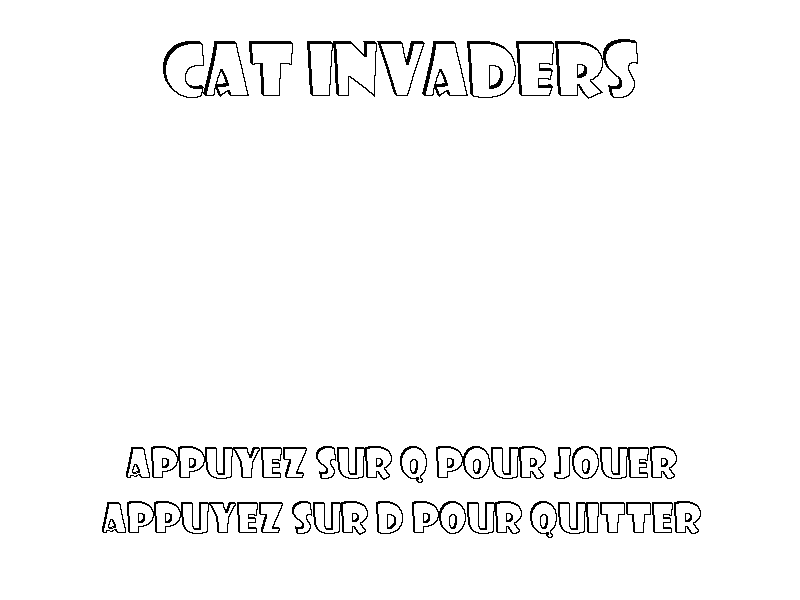
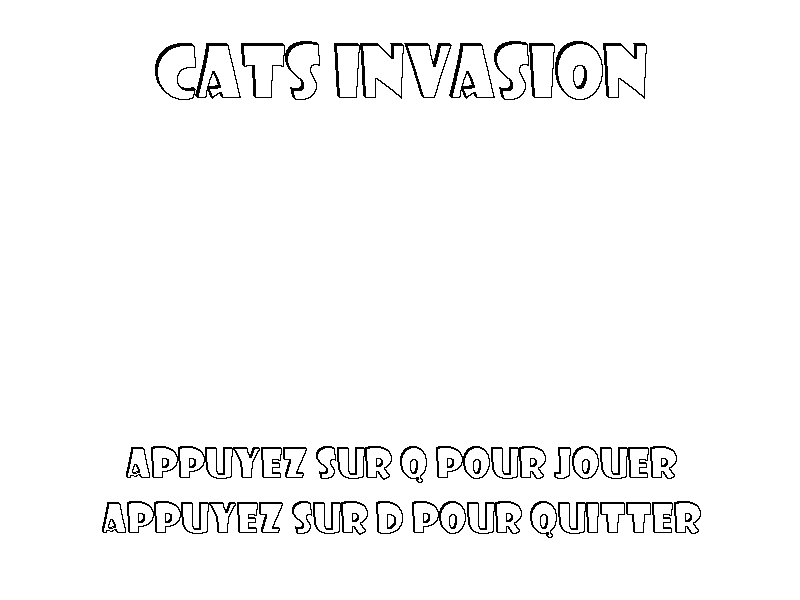
Rename project and memory optimization

Changed region(s): [[0.1875, 0.06, 0.8125, 0.18]]

diff --git a/src/main.c b/src/main.c
@@ -8,19 +8,20 @@
 #include <time.h>
 
 /* App settings */
-#define SPRITE_COUNT 24
+#define SPRITE_COUNT 23
 #define BACKGROUD_INDEX 0
-#define ICON_INDEX 7
-#define APP_NAME "Space Invaders"
+#define ICON_INDEX 6
+#define APP_NAME "Cats Invasion"
+#define APP_ID "fr.dashstrom.cats-invasion"
 #define APP_WIDTH 800
 #define APP_HEIGHT 600
 #define APP_MEMORY 32000
 #define FPS_MAX 13
-#define IMAGE_PATH "/sprites/data/images/"
-#define ADDR_STOP 8
-#define ADDR_MOVE_LEFT 24
-#define ADDR_MOVE_RIGHT 25
-#define ADDR_SHOOT 26
+#define IMAGE_PATH "/data/images/"
+#define ADDR_STOP 1
+#define ADDR_MOVE_LEFT 3
+#define ADDR_MOVE_RIGHT 4
+#define ADDR_SHOOT 5
 
 /* Pointer to the memory area */
 unsigned char *memory;
@@ -46,7 +47,6 @@ image_t images[] = {
     {IMAGE_PATH "debug.bmp", NULL},
     {IMAGE_PATH "void.bmp", NULL},
     {IMAGE_PATH "cat.png", NULL},
-    {IMAGE_PATH "cat-explode.png", NULL},
     {IMAGE_PATH "food.png", NULL},
     {IMAGE_PATH "spaceship1.png", NULL},
     {IMAGE_PATH "spaceship2.png", NULL},
@@ -117,7 +117,7 @@ void setup_images() {
 /* Wrapper for update loop in assembly */
 void update_loop() {
     if (!is_shutting_down) {
-        if (*(long long *)(memory + ADDR_STOP) != 0) {
+        if (memory[ADDR_STOP] != 0) {
             gtk_widget_destroy(main_window);
             return;
         }
@@ -157,13 +157,11 @@ int set_key(int keyval, int value) {
 
 /* Called by GTK3 when a key is pressed */
 int key_pressed(GtkWidget *widget, GdkEventKey *event, gpointer data) {
-    printf("PRESSED : %s %d\n", gdk_keyval_name(event->keyval), event->keyval);
     return set_key(event->keyval, 1);
 }
 
 /* Called by GTK3 when a key is released */
 int key_released(GtkWidget *widget, GdkEventKey *event, gpointer data) {
-    printf("RELEASED : %s %d\n", gdk_keyval_name(event->keyval), event->keyval);
     return set_key(event->keyval, 0);
 }
 
@@ -214,8 +212,7 @@ static void activate(GApplication *app) {
 
 /* Entry point */
 int main(int argc, char *argv[]) {
-    GtkApplication *app =
-        gtk_application_new("fr.dashstrom.space-invaders-asm", 0);
+    GtkApplication *app = gtk_application_new(APP_ID, 0);
     g_signal_connect(app, "activate", G_CALLBACK(activate), NULL);
     int status = g_application_run(G_APPLICATION(app), argc, argv);
     g_object_unref(app);

diff --git a/README.MD b/README.MD
@@ -1,6 +1,10 @@
-# Space Invaders asm
+# Cats Invasion
 
-Space invaders in assembly.
+Space invaders like with cats programmed assembly language.
+
+## Preview
+
+![preview.png](data/preview/preview.png)
 
 ## Build
 
@@ -11,17 +15,23 @@ sudo apt-get install libgtk-3-dev make
 make
 ```
 
+If you change an image, you need to clean the project before with the following comand :
+
+```sh
+make clean
+```
+
 ## Run
 
 ```sh
 ./build/SpaceInvaders
 ```
 
-## Convention
+## Developpement
 
 - Indentation : `8 spaces`
 - Label : `snake_case`
-- Inner label : `function__[if|for|while][...]`
+- Inner label : `_function__[if|for|while][...]`
 
 ## Attribution
 
